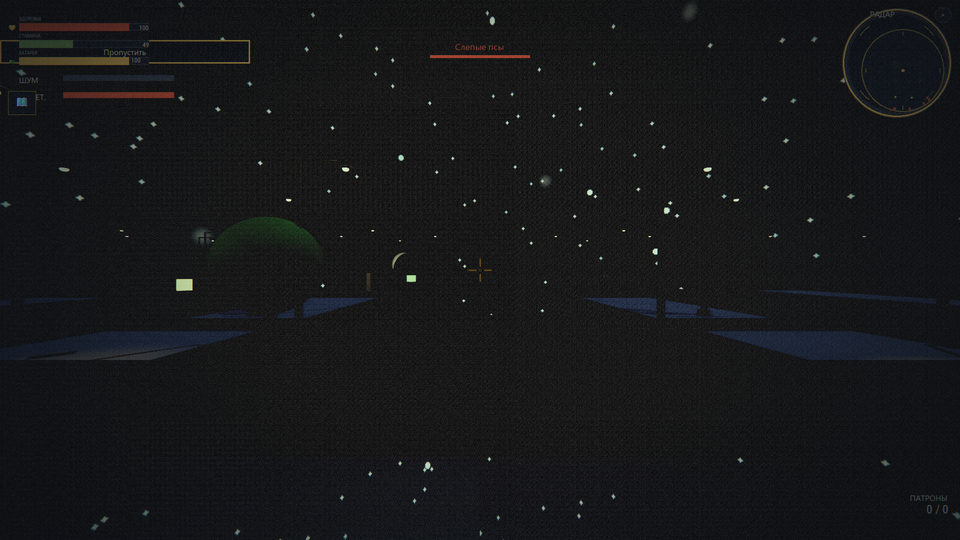
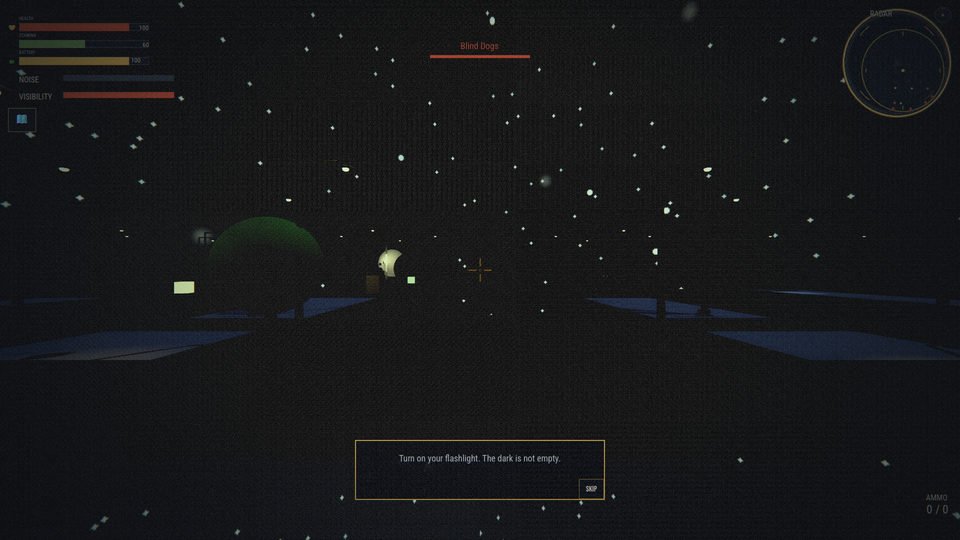
fix(ui): tutorial hint box was collapsed over the HUD bars; 7 tutorial hints missing in every locale
Found by reading the tz_verify frames:
- tutorial_system.gd assigned `anchors_preset` as a property (stores the
  enum, applies nothing): the zero-size panel sat at (0,0) and the hint
  box drew over HP/stamina/battery; label and Skip were both direct
  PanelContainer children (stacked). Now laid out with set_anchors_preset
  and a VBox: bottom-centre, Skip under the text.
- TUT_MOVE/PICKUP/CROUCH/DODGE/ATTACK/INVENTORY/FLASHLIGHT did not exist
  in any locale; the hints showed raw keys. Written for all 13 locales.
- hardcoded_text_gate.py now also fails on any "<..>_key": "KEY" data
  literal missing from en.json (proved: 7 hits with the keys removed).
- HUD map button moved below the VISIBILITY row it was covering.
tz_verify: 14 checks fails=0 incl. a new tutorial-layout check; frames
re-read, all PASS visual_truth_gate.

diff --git a/tools/qa_sim/hardcoded_text_gate.py b/tools/qa_sim/hardcoded_text_gate.py
@@ -8,15 +8,28 @@ Flags `<x>.text = "<literal>"` (and `+=`) where the literal contains a run of
 2+ letters (any script). Numbers, symbols and emoji pass. Literals that are
 key/tech tokens identical in every locale go in ALLOW with a reason.
 
+Also: every `"<...>_key": "KEY"` literal in a GDScript data dict (tutorial
+steps, recipe tables) must exist in data/i18n/en.json. The tutorial shipped
+7 of 11 hint keys missing in every locale because such keys never pass
+through a t()/tr() call the other checks look for.
+
 Usage: python tools/qa_sim/hardcoded_text_gate.py [--demo]
 Exit 0 clean, 1 on any hit.
 """
+import json
 import re
 import sys
 from pathlib import Path
 
 ASSIGN = re.compile(r'\.text\s*\+?=\s*"((?:[^"\\]|\\.)*)"')
 WORD = re.compile(r"[^\W\d_]{2,}")
+DATA_KEY = re.compile(r'"([a-z_]*_key)"\s*:\s*"([A-Za-z0-9_]+)"')
+
+
+def missing_data_keys(text: str, known: set) -> list[str]:
+    return [m.group(2) for m in DATA_KEY.finditer(text) if m.group(2) not in known]
+
+
 # Literal -> reason it is locale-independent.
 ALLOW = {
     "[ESC]  /  [TAP]": "physical key / gesture names, same on every keyboard layout",
@@ -37,12 +50,16 @@ def scan_text(text: str) -> list[str]:
 
 def main() -> int:
     root = Path(__file__).resolve().parents[2]
+    known = set(json.loads((root / "data/i18n/en.json").read_text(encoding="utf-8")))
     bad = []
     for p in sorted((root / "scripts").rglob("*.gd")):
         if "tools" in p.relative_to(root).parts:
             continue  # dev-only probes, excluded from export
-        for lit in scan_text(p.read_text(encoding="utf-8", errors="ignore")):
+        text = p.read_text(encoding="utf-8", errors="ignore")
+        for lit in scan_text(text):
             bad.append(f"{p.relative_to(root).as_posix()}: \"{lit}\"")
+        for key in missing_data_keys(text, known):
+            bad.append(f"{p.relative_to(root).as_posix()}: data key {key} not in en.json")
     for b in bad:
         print("HARDCODED", b)
     print("hardcoded_text_gate: %d hit(s)" % len(bad))
@@ -60,6 +77,8 @@ def _demo() -> None:
     assert scan_text('btn.text = "[✓] " + btn.text') == []
     assert scan_text(r'lbl.text = "%s\nx%d"') == []  # escape + one letter is not a word
     assert scan_text(r'lbl.text = "Line\nTwo"') == [r"Line\nTwo"]
+    assert missing_data_keys('{"text_key": "TUT_MOVE"}', {"TUT_MOVE"}) == []
+    assert missing_data_keys('{"text_key": "TUT_GONE"}', {"TUT_MOVE"}) == ["TUT_GONE"]
     print("demo OK")
 
 
